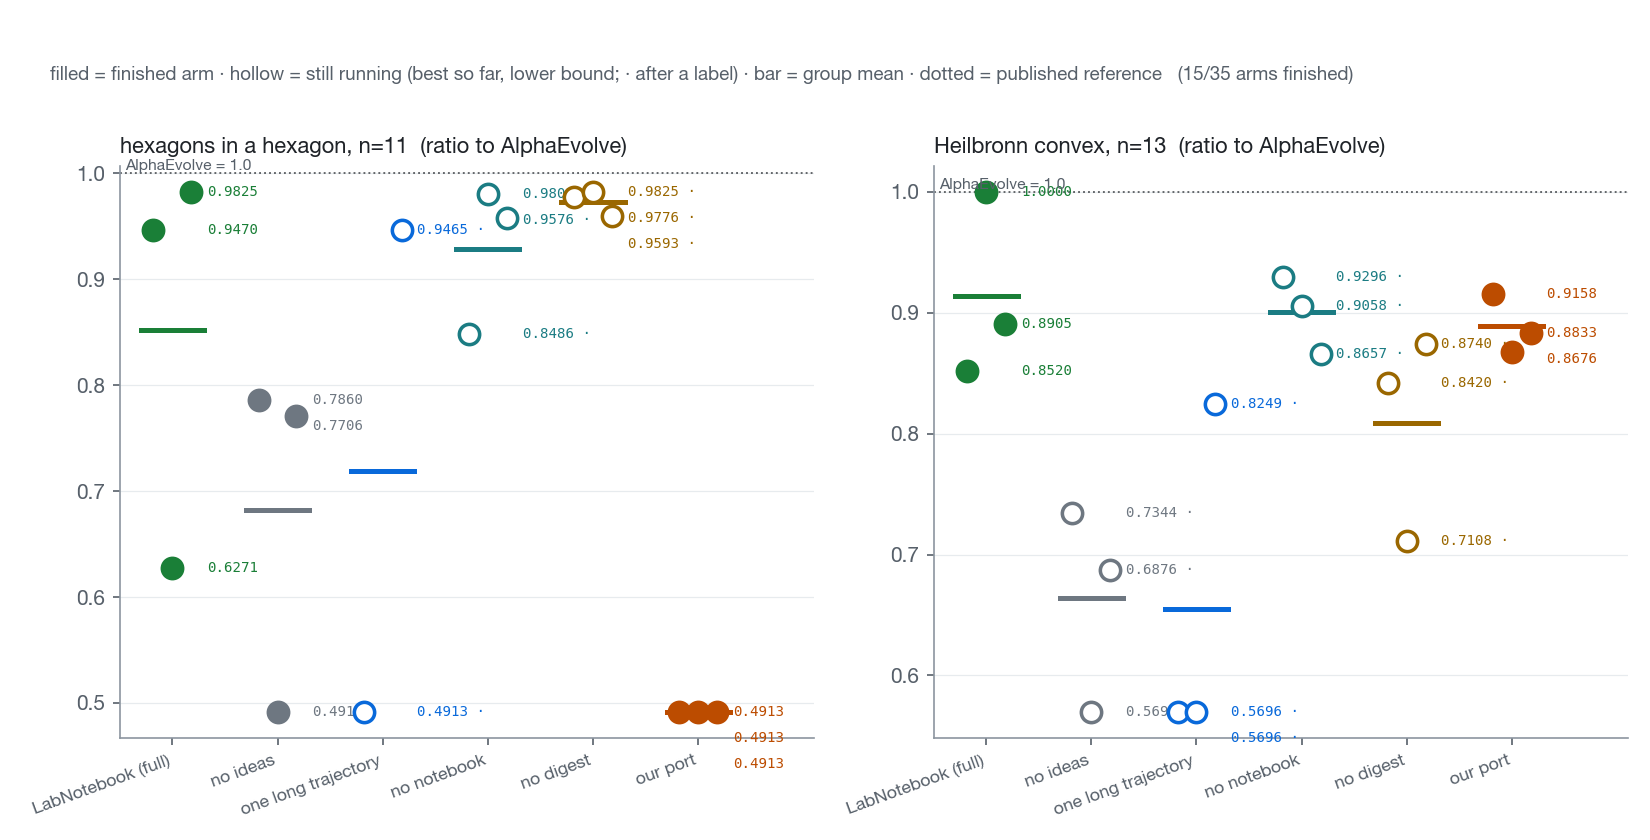
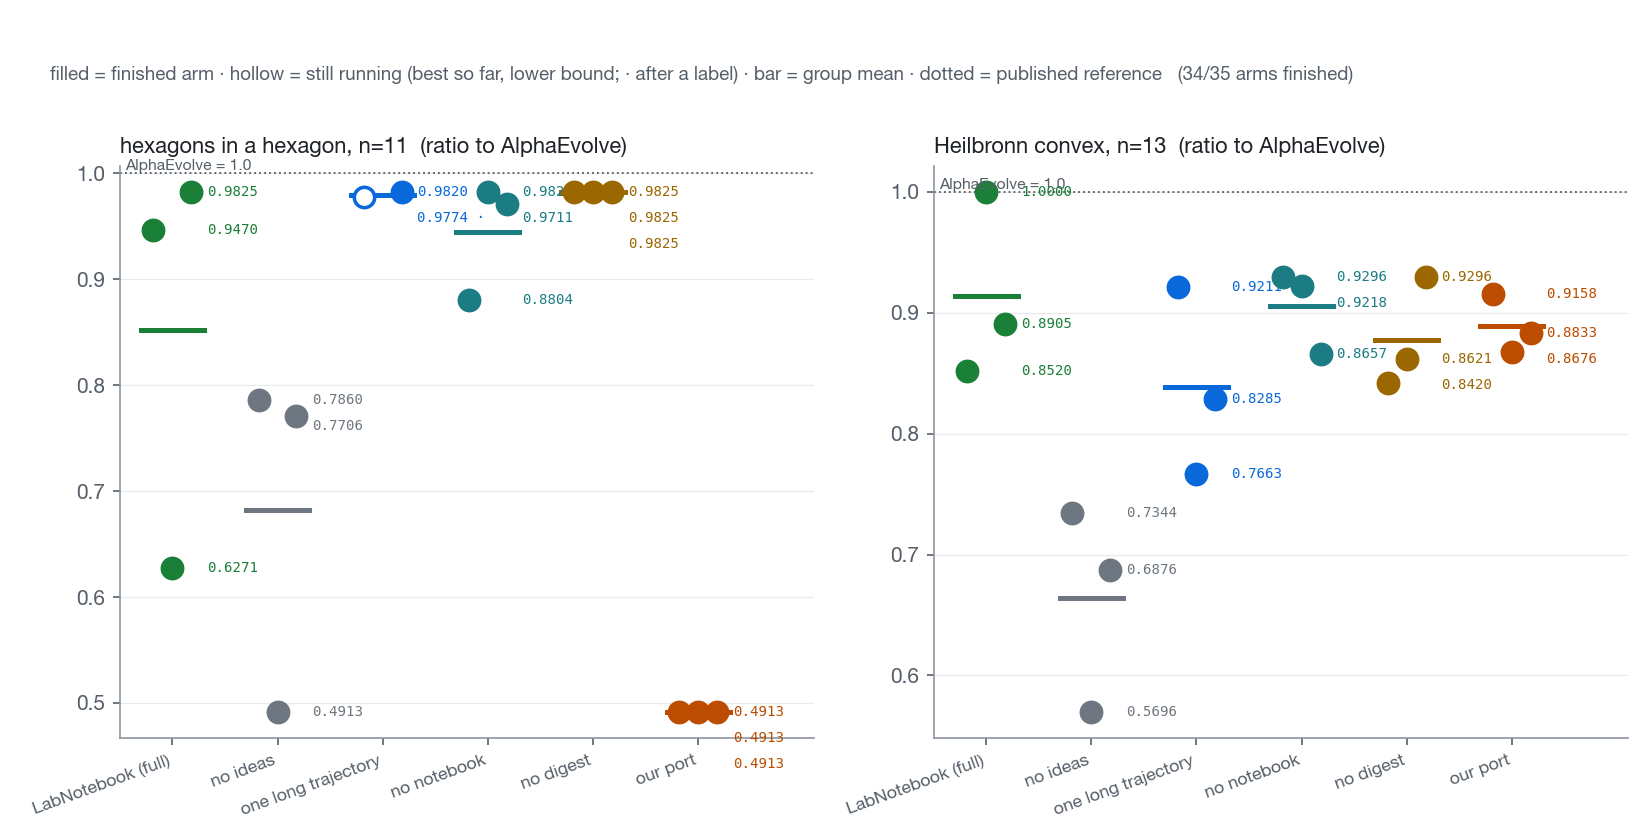
docs(evolution): ablations on hexagon-11 and Heilbronn-13 at 22/24 arms

diff --git a/examples/evolution_bench/docs/lab_notebook_results.tex b/examples/evolution_bench/docs/lab_notebook_results.tex
@@ -613,8 +613,7 @@ AlphaEvolve-campaign arms themselves. Table~\ref{tab:ablc} and Figure~\ref{fig:a
 snapshot; $^\circ$ marks arms still running (best so far).
 
 \begin{table}[H]\centering\small
-\caption{Ablations on hexagon-11 and Heilbronn convex-13 (snapshot 2026-09-14 15:00 PDT, 3 of 24 arms
-finished; $^\circ$ = running). Best per arm (s0 / s1 / s2) and mean; higher is better.}
+\caption{Ablations on hexagon-11 and Heilbronn convex-13 (snapshot 2026-09-15 14:10 PDT, 22 of 24 arms finished; $^\circ$ = the two hexagon one-long arms resumed after the walltime, best so far). Best per arm (s0 / s1 / s2) and mean; higher is better.}
 \label{tab:ablc}
 \begin{tabular}{@{}lrrrr@{}}
 \toprule
@@ -623,19 +622,19 @@ method & s0 & s1 & s2 & mean \\
 \midrule
 LabNotebook (full) & 0.9470 & 0.6271 & 0.9825 & 0.8522 \\
 no ideas & 0.7860 & 0.4913 & 0.7706 & 0.6826 \\
-one long trajectory & 0.4913$^\circ$ & --- & 0.9465$^\circ$ & 0.7189 \\
-no notebook & 0.8486$^\circ$ & 0.9803$^\circ$ & 0.9576$^\circ$ & 0.9288 \\
-no digest & 0.9776$^\circ$ & 0.9825$^\circ$ & 0.9593$^\circ$ & 0.9732 \\
+one long trajectory & 0.9774$^\circ$ & --- & 0.9820 & 0.9797 \\
+no notebook & 0.8804 & 0.9823 & 0.9711 & 0.9446 \\
+no digest & 0.9825 & 0.9825 & 0.9825 & 0.9825 \\
 \midrule
 our SimpleTES port & 0.4913 & 0.4913 & 0.4913 & 0.4913 \\
 \midrule
 \multicolumn{5}{@{}l}{\textbf{Heilbronn convex $n{=}13$} (ratio, higher is better)} \\
 \midrule
 LabNotebook (full) & 0.8520 & 1.0000 & 0.8905 & 0.9142 \\
-no ideas & 0.7344$^\circ$ & 0.5696$^\circ$ & 0.6876$^\circ$ & 0.6639 \\
-one long trajectory & 0.5696$^\circ$ & 0.5696$^\circ$ & 0.8249$^\circ$ & 0.6547 \\
-no notebook & 0.9296$^\circ$ & 0.9058$^\circ$ & 0.8657$^\circ$ & 0.9004 \\
-no digest & 0.8420$^\circ$ & 0.7108$^\circ$ & 0.8740$^\circ$ & 0.8090 \\
+no ideas & 0.7344 & 0.5696 & 0.6876 & 0.6639 \\
+one long trajectory & 0.9211 & 0.7663 & 0.8285 & 0.8386 \\
+no notebook & 0.9296 & 0.9218 & 0.8657 & 0.9057 \\
+no digest & 0.8420 & 0.8621 & 0.9296 & 0.8779 \\
 \midrule
 our SimpleTES port & 0.9158 & 0.8676 & 0.8833 & 0.8889 \\
 \bottomrule
@@ -644,12 +643,14 @@ our SimpleTES port & 0.9158 & 0.8676 & 0.8833 & 0.8889 \\
 
 \begin{figure}[H]\centering
 \includegraphics[width=\textwidth]{lab_notebook_figs/partC_ablations.png}
-\caption{Ablations on hexagon-11 (left) and Heilbronn convex-13 (right), snapshot. On hexagon-11 the
-three no-ideas arms have finished at 0.786 / 0.491 / 0.771, below the full method (0.852) and at or
-above the port (0.491, all three seeds): the ideas are what lift LabNotebook above the port there,
-while the no-notebook and no-digest arms are already at or above the full method's mean. Heilbronn
-is too early to read; the one-long arms are slow because each of their items is an eight-step
-trajectory.}
+\caption{Ablations on hexagon-11 (left) and Heilbronn convex-13 (right). The pattern of the other tasks
+repeats. Removing the ideas is the one change that hurts on both: hexagon-11 falls from 0.852 to
+0.683 (one seed exactly at the port's 0.491), Heilbronn from 0.914 to 0.664, below even the port
+(0.889). Removing the notebook or the digest does not hurt and on hexagon-11 helps: no-digest
+reaches the published value (0.9825) on all three seeds, no-notebook 0.945, against 0.852 for the
+full method whose seed 1 stalled at 0.627. One long trajectory is the high-variance variant: on
+hexagon-11 two seeds reach 0.98 and one produces no valid packing in 60 items; on Heilbronn its
+mean (0.839) is below the full method and the port.}
 \label{fig:ablc}
 \end{figure}
 
